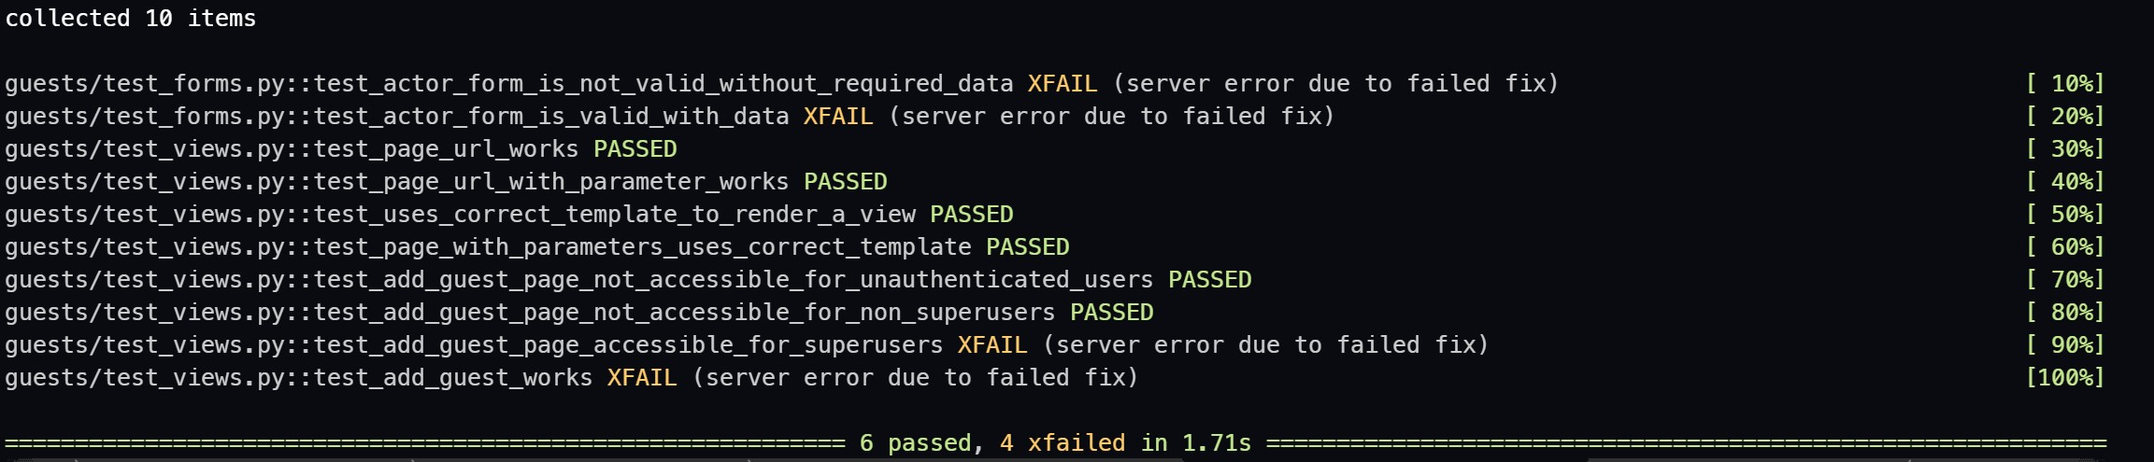
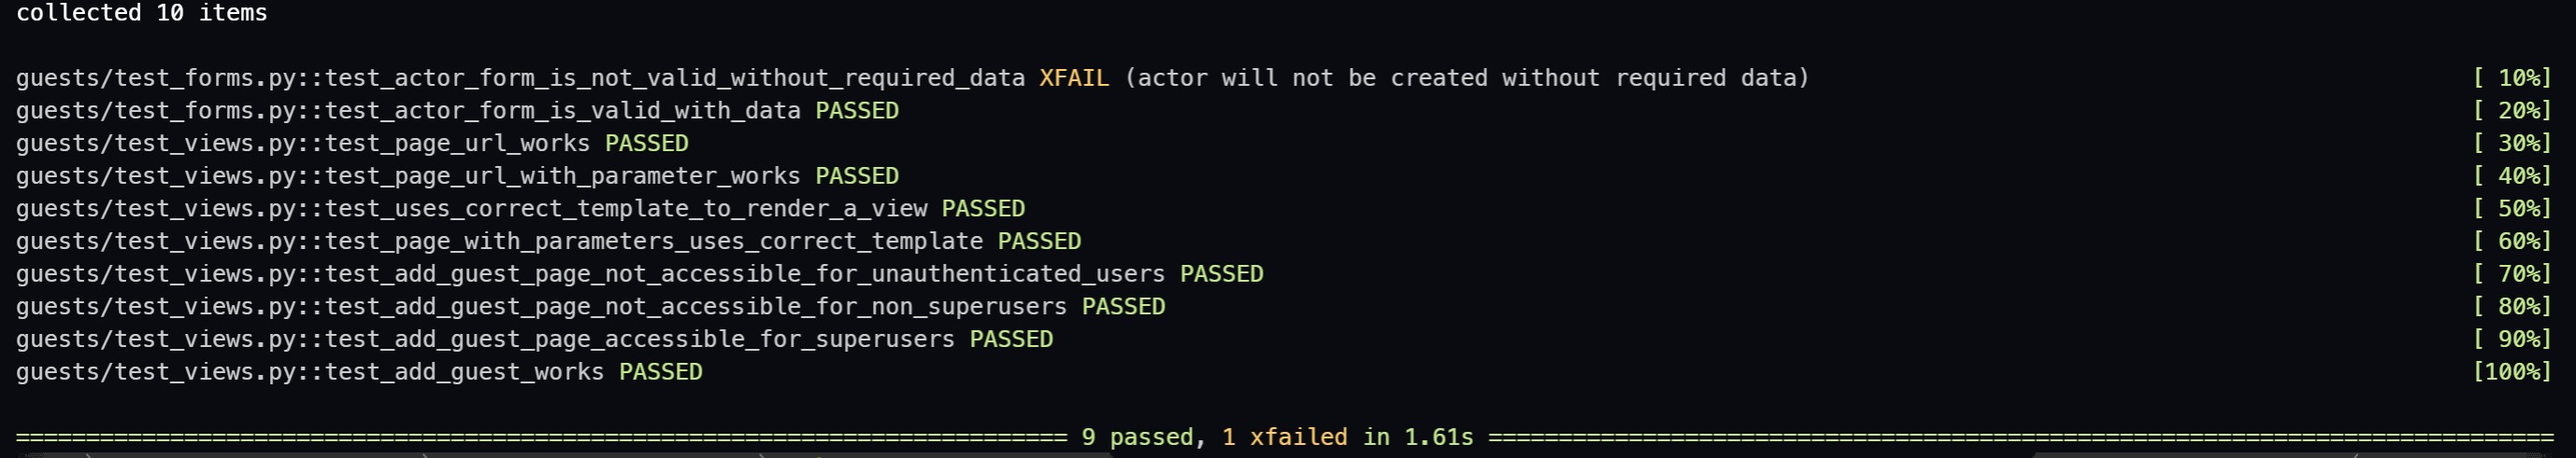
test: Update fixture + test for add-guest functionality
Re-apply security features

diff --git a/scifi_zone/settings.py b/scifi_zone/settings.py
@@ -56,76 +56,76 @@ MIDDLEWARE = [
     'watson.middleware.SearchContextMiddleware',
 ]
 
-# CSP_DEFAULT_SRC = (
-#     "'self'",
-#     "https://ms4-scifi-zone.s3.amazonaws.com",
-#     "https://*.stripe.com",
-#     "https://*.fontawesome.com",
-#     "https://ms4-scifi-zone.herokuapp.com",
-#     "https://*.jsdelivr.net",
-#     "https://*.jquery.com"
-# )
+CSP_DEFAULT_SRC = (
+    "'self'",
+    "https://ms4-scifi-zone.s3.amazonaws.com",
+    "https://*.stripe.com",
+    "https://*.fontawesome.com",
+    "https://ms4-scifi-zone.herokuapp.com",
+    "https://*.jsdelivr.net",
+    "https://*.jquery.com"
+)
 
-# CSP_SCRIPT_SRC = (
-#     "'self'",
-#     "https://*.stripe.com",
-#     "https://*.fontawesome.com",
-#     "https://ms4-scif-zone.herokuapp.com",
-#     "https://*.jsdelivr.net",
-#     "https://*.jquery.com"
-# )
+CSP_SCRIPT_SRC = (
+    "'self'",
+    "https://*.stripe.com",
+    "https://*.fontawesome.com",
+    "https://ms4-scif-zone.herokuapp.com",
+    "https://*.jsdelivr.net",
+    "https://*.jquery.com"
+)
 
-# CSP_SCRIPT_SRC_ELEM = (
-#     "'self'",
-#     "https://ms4-scifi-zone.s3.amazonaws.com",
-#     "https://*.stripe.com",
-#     "https://*.fontawesome.com",
-#     "https://ms4-scifi-zone.herokuapp.com",
-#     "https://*.jsdelivr.net",
-#     "https://*.jquery.com"
-# )
+CSP_SCRIPT_SRC_ELEM = (
+    "'self'",
+    "https://ms4-scifi-zone.s3.amazonaws.com",
+    "https://*.stripe.com",
+    "https://*.fontawesome.com",
+    "https://ms4-scifi-zone.herokuapp.com",
+    "https://*.jsdelivr.net",
+    "https://*.jquery.com"
+)
 
-# CSP_STYLE_SRC = ("'unsafe-inline'", "https:")
+CSP_STYLE_SRC = ("'unsafe-inline'", "https:")
 
-# CORS_ALLOWED_ORIGINS = [
-#     "https://herokuapp.com",
-#     "https://stripe.com",
-#     "http://localhost:8000",
-#     "http://127.0.0.1:8000",
-# ]
+CORS_ALLOWED_ORIGINS = [
+    "https://herokuapp.com",
+    "https://stripe.com",
+    "http://localhost:8000",
+    "http://127.0.0.1:8000",
+]
 
-# CSRF_TRUSTED_ORIGINS = [
-#     "http://stripe.com",
-#     "http://r.stripe.com",
-#     "http://js.stripe.com"
-# ]
+CSRF_TRUSTED_ORIGINS = [
+    "http://stripe.com",
+    "http://r.stripe.com",
+    "http://js.stripe.com"
+]
 
-# CORS_ALLOW_HEADERS = list(default_headers) + [
-#     "my-custom-header",
-# ]
+CORS_ALLOW_HEADERS = list(default_headers) + [
+    "my-custom-header",
+]
 
 # settings from "Django for Professionals" by William S. Vincent
 # prevent data sniffing
-# SECURE_SSL_REDIRECT = os.environ.get(
-#     "DJANGO_SECURE_SSL_REDIRECT", default=True)
+SECURE_SSL_REDIRECT = os.environ.get(
+    "DJANGO_SECURE_SSL_REDIRECT", default=True)
 
 # add Strict-Transport-Security header:
-# SECURE_HSTS_SECONDS = 300  # change to much greater value later
+SECURE_HSTS_SECONDS = 300  # change to much greater value later
 
 # force subdomains to use SSL
-# SECURE_HSTS_INCLUDE_SUBDOMAINS = True
+SECURE_HSTS_INCLUDE_SUBDOMAINS = True
 
 # because SECURE_HSTS_SECONDS has non-zero value
-# SECURE_HSTS_PRELOAD = True
+SECURE_HSTS_PRELOAD = True
 
 # force cookies over HTTPS
-# SESSION_COOKIE_SECURE = os.environ.get(
-#     "DJANGO_SESSION_COOKIE_SECURE", default=True)
+SESSION_COOKIE_SECURE = os.environ.get(
+    "DJANGO_SESSION_COOKIE_SECURE", default=True)
 
 # send only cookies marked as secure with an HTTPS connection
-# CSRF_COOKIE_SECURE = os.environ.get(
-#     "DJANGO_CSRF_COOKIE_SECURE", default=True
-# )
+CSRF_COOKIE_SECURE = os.environ.get(
+    "DJANGO_CSRF_COOKIE_SECURE", default=True
+)
 
 CRISPY_TEMPLATE_PACK = 'uni_form'
 

diff --git a/guests/test_forms.py b/guests/test_forms.py
@@ -24,7 +24,13 @@ def test_actor_form_is_valid_with_data(create_guest):
     data = {
         'name': create_guest.name,
         'star_autograph_category': create_guest.star_autograph_category,
-        'star_photoshoot_category': create_guest.star_photoshoot_category
+        'star_photoshoot_category': create_guest.star_photoshoot_category,
+        'star_image': create_guest.star_image,
+        'star_info_1': create_guest.star_info_1,
+        'star_info_2': create_guest.star_info_2,
+        'star_imdb': create_guest.star_imdb,
+        'star_wiki': create_guest.star_wiki,
+        'star_official': create_guest.star_official
     }
 
     form = ActorForm(data=data)

diff --git a/guests/test_views.py b/guests/test_views.py
@@ -84,7 +84,12 @@ def test_add_guest_works(admin_client):
         "star_autograph_category": "C",
         "star_photoshoot_category": "C",
         "star_image_url": "",
-        "star_image": ""
+        "star_image": "",
+        "star_info_1": "Info",
+        "star_info_2": "More info",
+        "star_imdb": "",
+        "star_wiki": "",
+        "star_offical": ""
     }
     url = reverse('add_guest')
     admin_client.post(url, data)
